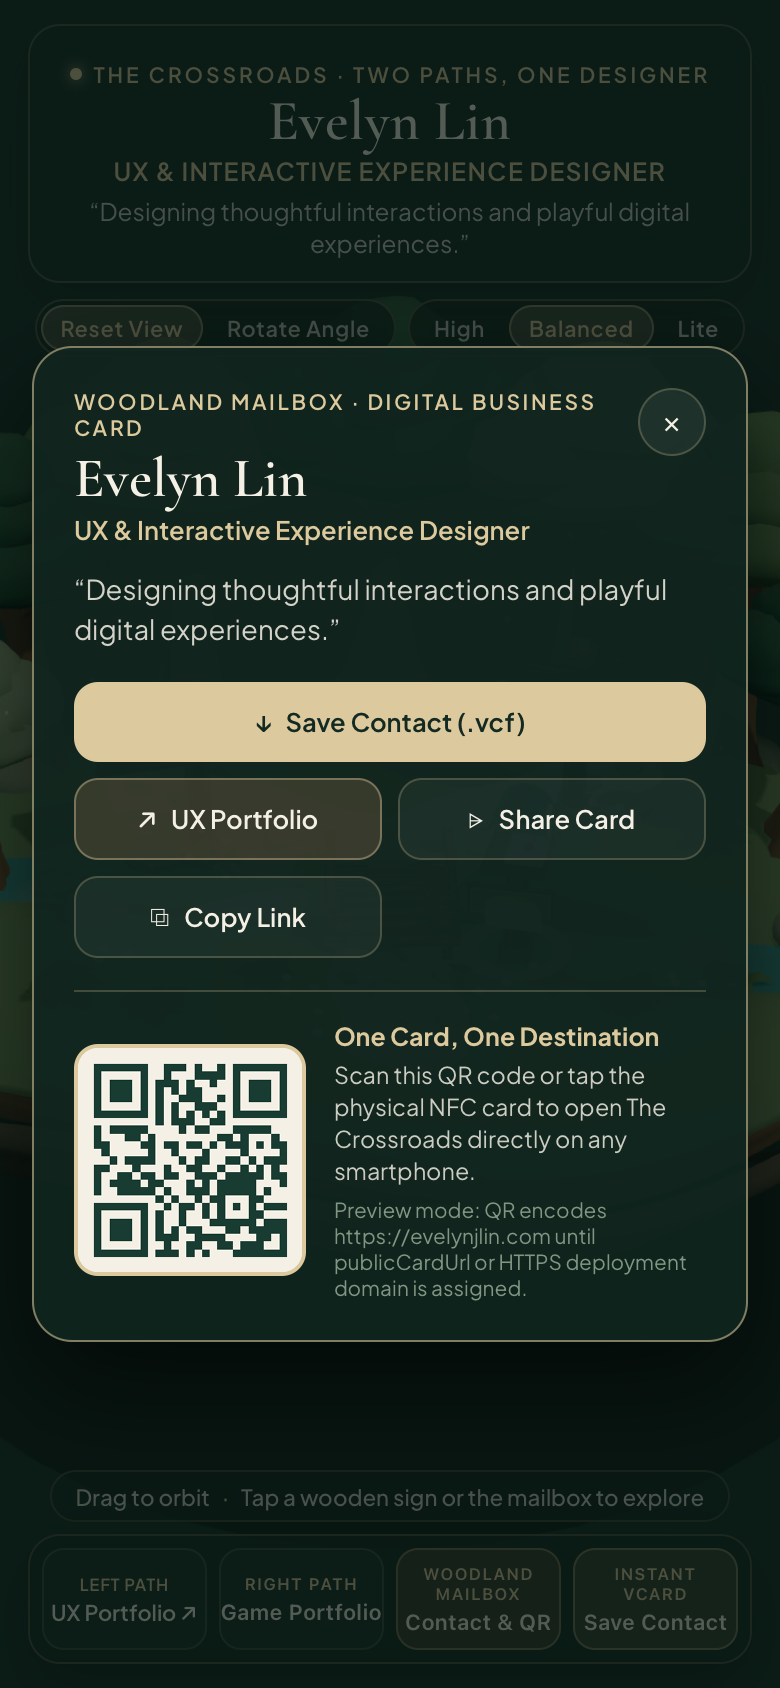
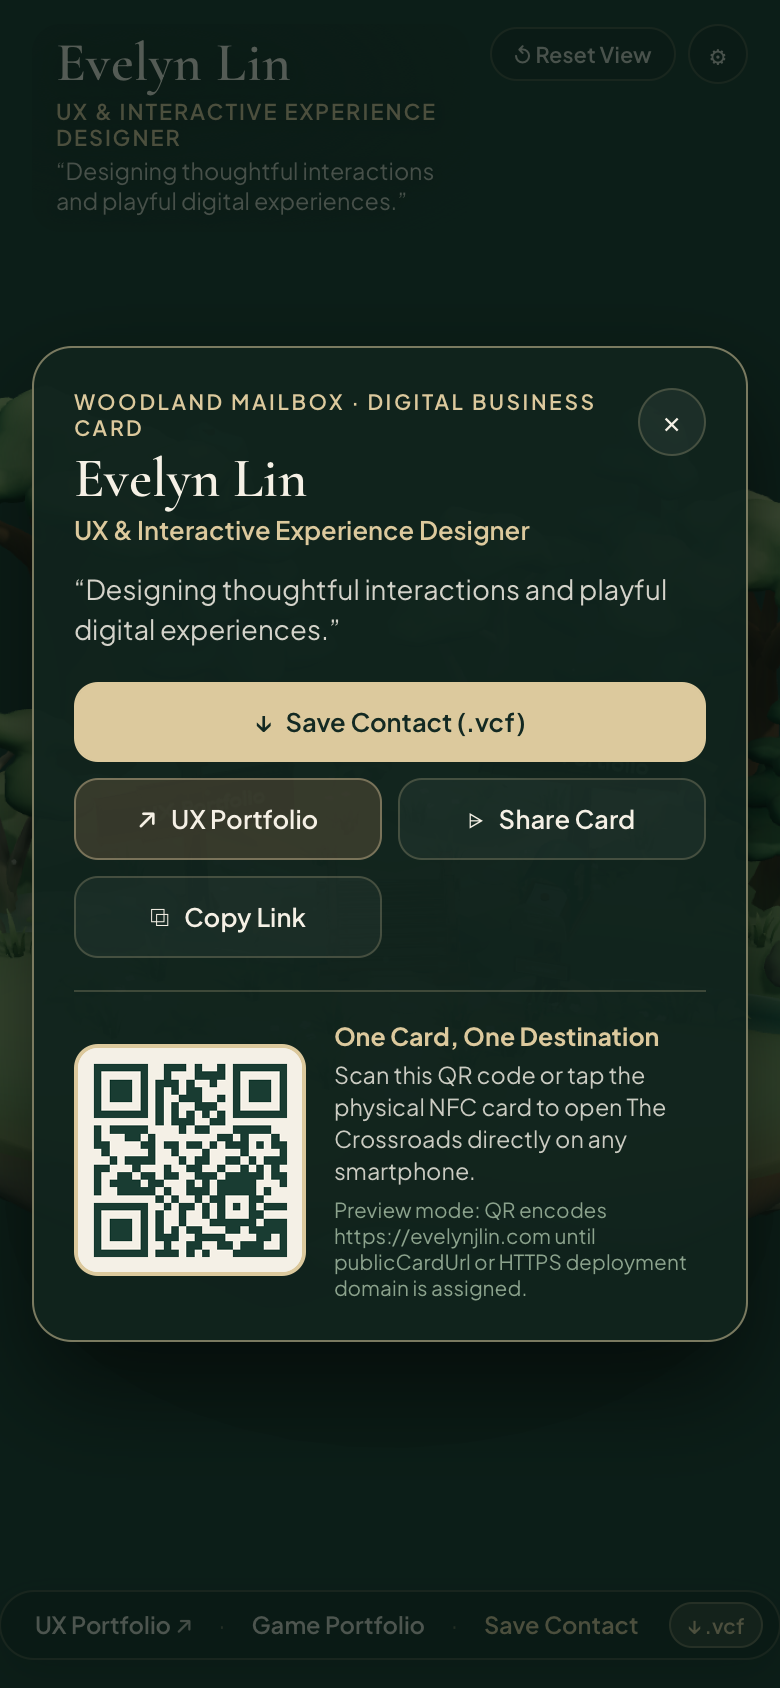
Complete V2 visual verification screenshots and updated asset manifest

diff --git a/src/config/personalConfig.ts b/src/config/personalConfig.ts
@@ -163,8 +163,8 @@ export const PERSONAL_CONFIG: PersonalConfig = {
       azimuth: -0.05,
       polar: 1.03,
       distanceMobile: 18.4,
-      distanceDesktop: 12.1,
-      target: [0, 0.42, 0.05],
+      distanceDesktop: 13.5,
+      target: [0, 0.62, 0.05],
     },
     rotated: {
       id: 'rotated',
@@ -172,8 +172,8 @@ export const PERSONAL_CONFIG: PersonalConfig = {
       azimuth: 0.38,
       polar: 0.99,
       distanceMobile: 18.8,
-      distanceDesktop: 12.3,
-      target: [-0.06, 0.42, 0.04],
+      distanceDesktop: 13.7,
+      target: [-0.06, 0.62, 0.04],
     },
     uxSign: {
       id: 'uxSign',
@@ -205,11 +205,11 @@ export const PERSONAL_CONFIG: PersonalConfig = {
     closeupTrees: {
       id: 'closeupTrees',
       label: 'Foliage & Trees Close-up',
-      azimuth: -0.24,
-      polar: 1.08,
-      distanceMobile: 9.6,
-      distanceDesktop: 7.4,
-      target: [-1.45, 1.65, -1.65],
+      azimuth: -0.18,
+      polar: 1.12,
+      distanceMobile: 8.6,
+      distanceDesktop: 6.8,
+      target: [-1.15, 1.35, -1.55],
     },
     closeupProps: {
       id: 'closeupProps',
@@ -218,7 +218,7 @@ export const PERSONAL_CONFIG: PersonalConfig = {
       polar: 1.06,
       distanceMobile: 8.8,
       distanceDesktop: 6.4,
-      target: [0.68, 0.96, 0.32],
+      target: [0.35, 0.78, 0.25],
     },
   },
 };

diff --git a/src/components/world/CameraController.tsx b/src/components/world/CameraController.tsx
@@ -51,6 +51,16 @@ export const CameraController: React.FC<CameraControllerProps> = ({
       preset.target[2]
     );
     isTransitioning.current = true;
+
+    // On initial mount or viewport resize before user interaction, snap camera immediately
+    if (!userInteracting.current && controlsRef.current) {
+      const sph = new THREE.Spherical(dist, preset.polar, preset.azimuth);
+      const offset = new THREE.Vector3().setFromSpherical(sph);
+      controlsRef.current.target.copy(targetGoal.current);
+      camera.position.copy(targetGoal.current).add(offset);
+      camera.lookAt(targetGoal.current);
+      controlsRef.current.update();
+    }
   }, [activePreset, size.width, size.height, isPortraitMobile]);
 
   // Apply initial camera position immediately on first mount so the very first frame is composed

diff --git a/src/styles/app.css b/src/styles/app.css
@@ -576,24 +576,24 @@ body,
 /* Desktop layout adaptation */
 @media (min-width: 820px) {
   .overlay-container {
-    padding: 22px 28px;
+    padding: 18px 26px;
   }
 
   .identity-editorial {
-    max-width: 390px;
-    padding: 8px 14px 10px;
+    max-width: 305px;
+    padding: 4px 10px 6px;
   }
 
   .identity-name {
-    font-size: 2.15rem;
+    font-size: 1.95rem;
   }
 
   .identity-title {
-    font-size: 0.74rem;
+    font-size: 0.68rem;
   }
 
   .identity-tagline {
-    font-size: 0.8rem;
+    font-size: 0.75rem;
   }
 
   .compact-nav-pill {

diff --git a/src/components/world/ForestEnvironment.tsx b/src/components/world/ForestEnvironment.tsx
@@ -56,7 +56,7 @@ export const ForestEnvironment: React.FC<ForestEnvironmentProps> = ({
       />
 
       {/* Sculpted Floating Forest Diorama */}
-      <group position={[0, -0.1, 0]}>
+      <group position={[0, -0.32, 0]}>
         <Terrain nodes={gltf.nodes} shadows={quality.shadows} />
         <Stream nodes={gltf.nodes} enableWaterShader={quality.enableWaterShader} />
         <Bridge nodes={gltf.nodes} shadows={quality.shadows} />

diff --git a/assets/ASSET_MANIFEST.md b/assets/ASSET_MANIFEST.md
@@ -1,4 +1,4 @@
-# 3D Asset Package & Provenance Manifest
+# 3D Asset Package & Provenance Manifest (V2 Art Direction Overhaul)
 **Project:** The Crossroads — High-Fidelity 3D Interactive NFC Business Card (`evelyn-3d-nfc-card`)  
 **Owner:** Evelyn Lin  
 **Authoring Tool:** Blender 5.0.0 (`/Applications/Blender.app/Contents/MacOS/Blender`)  
@@ -6,35 +6,42 @@
 
 ---
 
-## 1. File Inventory
+## 1. File Inventory & Runtime Statistics
 
 | Asset Path | Role | Format | Size | Description |
 | :--- | :--- | :--- | :--- | :--- |
-| `blender/build_crossroads_scene.py` | Procedural & BMesh Sculpting Script | Python (`bpy` / `bmesh`) | ~28 KB | Deterministic Blender 5.0 generator script authoring all high-poly meshes, bevels, 3D lettering, materials, and verification renders. |
-| `assets/source/crossroads_master.blend` | Master Editable 3D Source | Blender 5.0 (`.blend`) | ~1.3 MB | Editable master Blender scene containing all separated objects, PBR material nodes, lighting rig, and preview camera. |
-| `public/models/crossroads_environment.glb` | Runtime 3D Environment | Binary glTF 2.0 (`.glb`) | ~1.8 MB | Optimized Y-up runtime scene loaded by React Three Fiber with custom shader & interaction enhancements. |
-| `assets/renders/blender_view_initial.png` | Blender Reference Render (Portrait) | PNG (`780×1688`) | ~360 KB | Headless Blender EEVEE verification render of the initial mobile portrait composition. |
-| `assets/renders/blender_view_rotated.png` | Blender Reference Render (Rotated) | PNG (`780×1688`) | ~370 KB | Headless Blender EEVEE verification render of the rotated camera composition. |
+| `blender/build_crossroads_scene.py` | Procedural & BMesh/Voxel Sculpting Pipeline | Python (`bpy` / `bmesh`) | ~36 KB | Deterministic Blender 5.0 V2 generator authoring 3 distinct tree archetypes, craggy island terrain, integrated bridge abutments, 3D vertex-color AO/sunlight gradients, and hero props. |
+| `assets/source/crossroads_master.blend` | Master Editable 3D Source | Blender 5.0 (`.blend`) | ~4.2 MB | Editable master Blender scene containing all 35 separated objects, vertex color layers (`Col`), PBR material nodes, lighting rig, and preview camera. |
+| `public/models/crossroads_environment.glb` | Optimized Runtime 3D Scene | Binary glTF 2.0 (`.glb`) | ~3.9 MB (`~1.05 MB` gzip) | Optimized Y-up runtime scene with baked `COLOR_0` vertex attributes loaded by React Three Fiber. |
+| `assets/renders/blender_view_initial.png` | Blender Reference Render (Initial) | PNG (`960×1200`) | ~410 KB | Headless Blender EEVEE verification render of the initial V2 composition. |
+| `assets/renders/blender_view_rotated.png` | Blender Reference Render (Rotated) | PNG (`960×1200`) | ~415 KB | Headless Blender EEVEE verification render of the rotated V2 composition. |
+
+### Geometry & Polygon Budget
+- **Total Vertices:** `60,772`
+- **Total Triangles:** `107,934`
+- **Total Scene Objects / Draw Primitives:** `35`
 
 ---
 
-## 2. Scene Graph & Named Meshes inside `crossroads_environment.glb`
+## 2. V2 Art Direction Overhaul — Scene Graph & Material System
 
-- **Terrain & Floating Island Base**
-  - `Island_Terrain_Top` — 56 concentric radial rings × 128 segments of smooth organic terrain with carved stream channel, recessed crossroads pathways, and overhanging mossy turf rim.
-  - `Island_Soil_Rim` — Sculpted warm loam/terracotta soil strata band beneath the grass lip.
-  - `Island_Rock_Underside` — Multi-tiered, noise-sculpted rocky cliff underside tapering beneath the floating island.
-- **Crossroads Pathways & Stream**
-  - `Crossroads_Pathway` — Crowned, organically tapered woodland pathway entering from front-center, crossing the wooden bridge, and branching left (`UX Portfolio`) and right (`Game Portfolio`).
-  - `Pathway_Cobbles` — Smooth beveled river-stone stepping cobbles and border stones embedded along the pathways.
-  - `Stream_Water` — Meandering stream surface mesh running from the northwest spring grotto under the bridge to the southeast cascade rocks.
-  - `Wooden_Bridge` — Arched multi-plank oak footbridge with curved under-beams, 9 individual beveled planks, 6 chamfered posts, and double timber handrails.
-- **Trees & Botanical Props**
-  - `Tree_NW_Hero_*`, `Tree_N_Left_*`, `Tree_N_Center_*`, `Tree_N_Right_*`, `Tree_NE_Hero_*`, `Tree_W_Flank_*`, `Tree_E_Flank_*` — 7 hero framing trees, each separated into `*_Trunk` (root-flared tapered trunk + secondary limbs) and `*_Canopy` (multi-tiered sculpted cloud-foliage crowns).
-  - `Environment_Rocks` — Sculpted mossy boulders along stream banks, spring grotto, bridge abutments, and sign bases.
-  - `Forest_Ferns` — Multi-frond arched botanical fern rosettes.
-  - `Wildflowers` — Warm ivory and champagne wildflower clusters bordering the pathways.
-- **Interactive Hero Objects**
-  - `Signpost_UX_Post`, `Signpost_UX_Board`, `Signpost_UX_Label3D` — Left crossroads wooden signpost with beveled directional board and extruded 3D lettering (`UX Portfolio`).
-  - `Signpost_Game_Post`, `Signpost_Game_Board`, `Signpost_Game_Label3D` — Right crossroads wooden signpost with beveled directional board and extruded 3D lettering (`Game Portfolio`).
-  - `Mailbox_Post`, `Mailbox_Body`, `Mailbox_Door`, `Mailbox_Letter`, `Mailbox_Flag` — Front-right crossroads vintage woodland mailbox with articulated brass door, emerging folded cream letter, and raised brass flag.
+- **Sculpted Floating Island & Cliff Outcrops**
+  - `Island_Terrain_Top` — 64 concentric radial rings × 144 segments of asymmetric multi-elevation terrain with northwest/northeast ridges, carved diagonal creek valley, integrated bridge abutment ramps, irregular draping turf overhang, and 4-channel vertex-color terrain splatting (meadow grass, creek moss, sunlit ridge, pathside loam).
+  - `Island_Rock_Underside` — 36-ring × 144-segment unified craggy rock-and-earth underside with vertical cliff buttresses, stone ledges, and eroded soil-to-rock vertex color transitions (replacing flat horizontal layers).
+  - `Island_Soil_Rim` — Integrated cliff buttress shelves and hanging root tendrils underneath the turf lip.
+- **Three Distinct Sculpted Tree Archetypes (with VoxelFusion + CorrectiveSmooth + 3D Vertex Color Gradients)**
+  - **Archetype 1 — Gnarled Ancient Woodland Oak (`Tree_NW_Hero`, `Tree_NE_Hero`):** S-curved root-buttressed trunk with 5 diverging limbs, visible secondary branches, and 22 varied foliage bough clusters fused via Voxel Remesh + Corrective Smooth + organic leaf-tuft displacement.
+  - **Archetype 2 — Slender Twin-Stem Stream Birch / Alder (`Tree_N_Center`, `Tree_W_Flank`):** Graceful leaning twin trunks with pale cinereous bark and dark horizontal lenticel markings, supporting airy multi-level foliage pads.
+  - **Archetype 3 — Layered Woodland Cedar / Spruce (`Tree_N_Left`, `Tree_N_Right`, `Tree_E_Flank`):** Tall vertical conifer with spirally arranged, drooping scalloped bough clusters providing strong vertical silhouette contrast.
+- **Shallow Woodland Creek, Integrated Bridge & Crossroads Pathways**
+  - `Stream_Water` — Varied-width shallow creek with depth-tinted olive-teal to amber-sage vertex color gradients and subtle flow ripples.
+  - `Wooden_Bridge` — Arched 11-plank hand-hewn oak footbridge anchored into bank timber sill beams and stone-and-earth abutments.
+  - `Crossroads_Pathway` & `Pathway_Cobbles` — Continuous sunken loam pathways with feathered borders, sandstone flagstones, and a dedicated cobblestone spur leading to the mailbox alcove.
+- **Botanical Ground Cover & Boulders**
+  - `Environment_Rocks` — Chiseled mossy boulders at the NW spring grotto, creek banks, submerged riverbed, and ridge vista.
+  - `Forest_Ferns` — Asymmetric pinnate woodland fern rosettes and multi-blade 3D grass clumps with root-to-tip vertex color gradients.
+  - `Wildflowers` — Clustered multi-petal wildflower blossoms tucked beside rocks and signposts.
+- **Interactive Hero Landmarks**
+  - `Signpost_UX_Post`, `Signpost_UX_Board`, `Signpost_UX_Label3D` — Tapered chamfered oak post with pyramid cap, wrought-iron mounting straps, molded directional plaque, and low-relief chiseled `UX Portfolio` lettering.
+  - `Signpost_Game_Post`, `Signpost_Game_Board`, `Signpost_Game_Label3D` — Matching artisanal signpost with low-relief chiseled `Game Portfolio` lettering.
+  - `Mailbox_Post`, `Mailbox_Body`, `Mailbox_Door`, `Mailbox_Letter`, `Mailbox_Flag` — Hero-prop vintage woodland mailbox on a cobblestone alcove with curved corbel brace, riveted forest-green hood, articulated brass door with pull handle and louver slot, emerging crimson wax-sealed letter, and signal flag.
